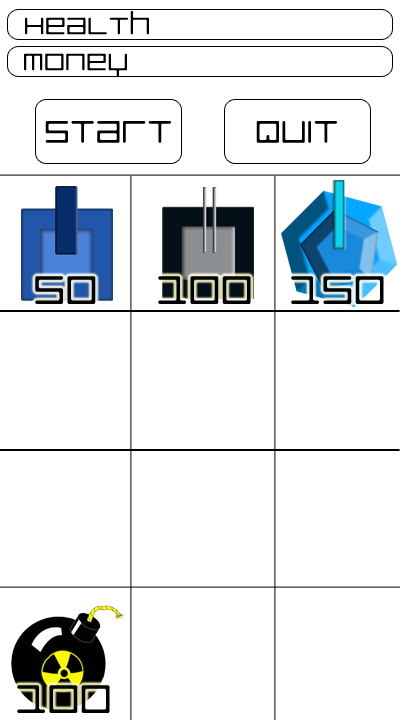
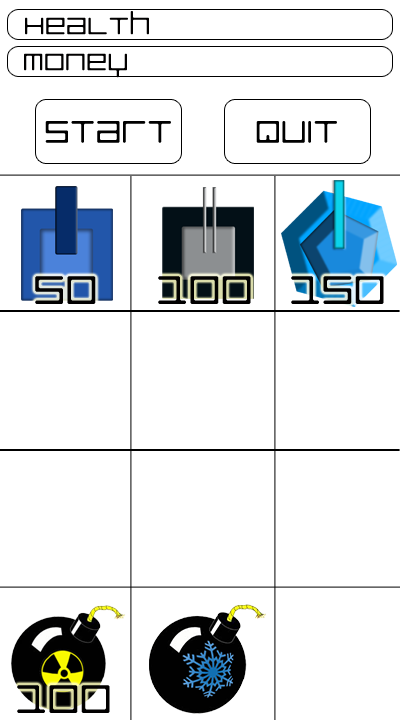
Initial freeze bomb commit

Changed region(s): [[0.36, 0.825, 0.66, 1.0]]

diff --git a/Current/bomb.cpp b/Current/bomb.cpp
@@ -16,31 +16,43 @@ Bomb::Bomb(float x, float y, int type)
 void Bomb::DrawBomb(){
 	if (this->timerStarted) {
 		sf::Time elapsed1 = timer.getElapsedTime();
-		sf::RectangleShape healthRect; 	
-		healthRect.setPosition(sf::Vector2f(x, y - 20));
+		sf::RectangleShape timerRect; 	
+		timerRect.setPosition(sf::Vector2f(x, y - 20));
 		float a, b;
 		a = (float) elapsed1.asMilliseconds();
-		b = (float) 1500;
-		healthRect.setSize(sf::Vector2f((a / b) * 140.0f, 10));
-		healthRect.setFillColor(sf::Color::Red);
-		window.draw(healthRect);
+		if(type == 0)
+			timerRect.setFillColor(sf::Color::Red);
+		else 
+			timerRect.setFillColor(sf::Color::Blue);
+		timerRect.setSize(sf::Vector2f((a / 1500.0f) * 140.0f, 10));
+
+		window.draw(timerRect);
 	}
 
 
 	bombRect.setPosition(x,y);
-	bombRect.setTexture(&bombTexture[0]);
+	bombRect.setTexture(&bombTexture[type]);
 	bombRect.setSize(sf::Vector2f(140, 140));
 	window.draw(bombRect);
 }
 
 
 void Bomb::enemyInRange(Enemy* enemyCheck){
-
-	if(enemyCheck->xPos >0 && enemyCheck->yPos >0)
+	
+	if(enemyCheck->xPos > 0 && enemyCheck->yPos >0)
 	{
-		enemyCheck->healthPoints -= 400;
-		if(enemyCheck->healthPoints < 1)
-			enemyCheck = NULL;
+		switch(type)
+		{
+			case 0:
+				enemyCheck->healthPoints -= 400;
+				if(enemyCheck->healthPoints < 1)
+					enemyCheck = NULL;
+				break;
+			case 1:
+				enemyCheck->isFrozen = true;
+				enemyCheck->frozenTimer.restart();
+				break;
+		}
 	}
 }
 

diff --git a/Current/level.cpp b/Current/level.cpp
@@ -171,13 +171,19 @@ void DrawLevel2D()
 	{
 		sf::Time elapsed1 = bomb->timer.getElapsedTime();
 		sf::RectangleShape explosion(sf::Vector2f(1280, 720));
-		explosion.setFillColor(sf::Color(255, 255, 0, elapsed1.asMilliseconds()));
+		switch(bomb->type)
+		{
+			case 0:
+				explosion.setFillColor(sf::Color(255, 255, 0, elapsed1.asMilliseconds()));
+				break;
+			case 1:
+				explosion.setFillColor(sf::Color(0, 0, 255, elapsed1.asMilliseconds()));
+				break;
+		}
 		explosion.setPosition(sf::Vector2f(0, 0));
 		window.draw(explosion);
 		if(elapsed1.asMilliseconds() > 255)
-		{
 			explosionFading = false;
-		}
 	}
 
 
@@ -395,6 +401,17 @@ void LevelOnMouseClick(int button, int type, int x, int y){
 			if((x < 1410 && x > 1280) && (y < 720 && y > 550) && currencyAmount >= 100){
 				if(!pickedUpBomb && !pickedUpTower && bomb->timerStarted == false){
 					currencyAmount -= 100;
+					bomb->type = 0;
+					bomb->DrawBomb();
+					pickedUpBomb = true;
+				}
+			}
+
+			// Bomb button
+			if((x < 1555 && x > 1430) && (y < 720 && y > 550) && currencyAmount >= 100){
+				if(!pickedUpBomb && !pickedUpTower && bomb->timerStarted == false){
+					currencyAmount -= 100;
+					bomb->type = 1;
 					bomb->DrawBomb();
 					pickedUpBomb = true;
 				}

diff --git a/Current/enemy.cpp b/Current/enemy.cpp
@@ -12,6 +12,7 @@ Enemy::Enemy(float xPos, float yPos, int type)
 		this->timerStarted = false;
 		this->frame = 0;
 		this->isSlowed = false;
+		this->isFrozen = false;
 		this->rotateFlagN = false;
 		this->rotateFlagE = false;
 		this->rotateFlagS = false;
@@ -32,10 +33,23 @@ void Enemy::draw()
 		window.draw(healthRect);
 	}
 
-		enemyRect.setTexture(&enemyTexture[this->type][this->frame], true);
-		enemyRect.setSize(sf::Vector2f(50, 50));
-		enemyRect.setPosition(xPos, yPos);
-		window.draw(enemyRect);
+	enemyRect.setTexture(&enemyTexture[this->type][this->frame], true);
+	enemyRect.setSize(sf::Vector2f(50, 50));
+	enemyRect.setPosition(xPos, yPos);
+	window.draw(enemyRect);
+
+	if(isFrozen)
+	{
+		sf::RectangleShape ice; 	
+		ice.setPosition(sf::Vector2f(xPos, yPos));
+		ice.setSize(sf::Vector2f(50, 50));
+		ice.setTexture(&iceTexture);
+		window.draw(ice);
+
+		sf::Time elapsedFrozen = frozenTimer.getElapsedTime();
+		if(elapsedFrozen.asSeconds() > 2)
+			isFrozen = false;
+	}
 
 	if (this->timerStarted) {
 		sf::Time elapsed1 = timer.getElapsedTime();

diff --git a/Current/window.cpp b/Current/window.cpp
@@ -29,6 +29,7 @@ sf::Texture slowingTowerTexture[2];
 sf::Texture economyTowerTexture;
 sf::Texture bombTexture[2];
 sf::Texture padLockTexture;
+sf::Texture iceTexture;
 sf::Music menuMusic;
 
 //we call this function when switching screens, it will initialise whatever screen we are calling
@@ -195,6 +196,8 @@ void loadResources()
 	economyTowerTexture.loadFromFile("images/Towers/econmy tower/econTower.png");
 	padLockTexture.loadFromFile("images/LevelSelect/padlock-hi.png");
 	bombTexture[0].loadFromFile("images/bomb/bomb.png");
+	bombTexture[1].loadFromFile("images/bomb/bomb_ice.png");
+	iceTexture.loadFromFile("images/bomb/ice.png");
 }
 
 void initialiseWindow(int argc,char **argv){

diff --git a/Current/Pathing.cpp b/Current/Pathing.cpp
@@ -8,10 +8,14 @@ using namespace std;
 
 void GenPath(Enemy *e, int currentLevel) {
 
-	if(e->isSlowed == true){
+	if(e->isSlowed)
 		e->speed = e->originalSpeed - 2.0;
-	}
-	else if(e->isSlowed == false){e->speed = e->originalSpeed;}
+	else if(!e->isSlowed)
+		e->speed = e->originalSpeed;
+
+	if(e->isFrozen)
+		e->speed = 0.0;
+
 
 	switch(currentLevel) {
 		case 1:

diff --git a/Current/enemy.h b/Current/enemy.h
@@ -13,6 +13,7 @@ class Enemy {
 		int type;
 		int frame;
 		bool isSlowed;
+		bool isFrozen; 
 		bool end;
 		bool timerStarted;
 		bool rotateFlagN;
@@ -21,6 +22,7 @@ class Enemy {
 		bool rotateFlagW;
 		sf::RectangleShape enemyRect;
 		sf::Clock timer;
+		sf::Clock frozenTimer;
 		Enemy(float, float, int);
 
 		void draw();

diff --git a/Current/window.h b/Current/window.h
@@ -32,5 +32,6 @@ extern sf::Texture longRangeTowerTexture[2];
 extern sf::Music menuMusic;
 extern sf::Texture padLockTexture;
 extern sf::Texture bombTexture[2];
+extern sf::Texture iceTexture;
 extern sf::Texture slowingTowerTexture[2];
 extern sf::Texture economyTowerTexture;
